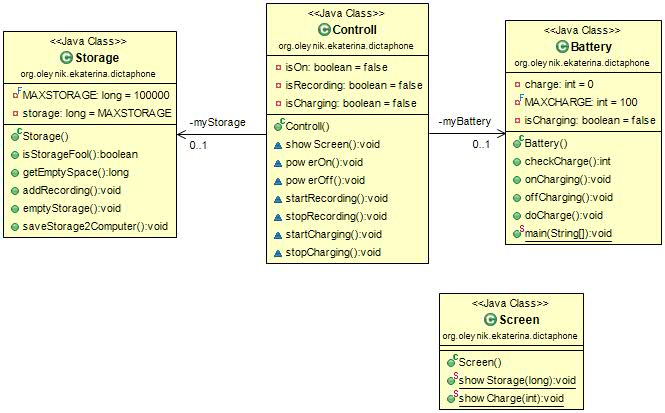
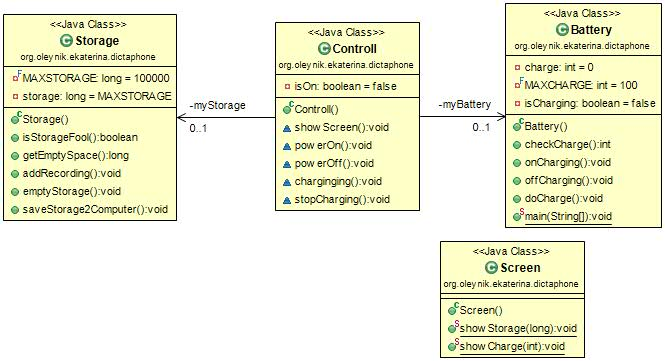
Dictaphone classes were updated

Changed region(s): [[0.0, 0.0, 1.0, 0.6399], [0.6617, 0.6704, 0.9023, 1.0]]

diff --git a/dictaphone/src/org/oleynik/ekaterina/dictaphone/Controll.java b/dictaphone/src/org/oleynik/ekaterina/dictaphone/Controll.java
@@ -4,8 +4,6 @@ public class Controll {
 	private Battery myBattery = new Battery();
 	private Storage myStorage = new Storage();
 	private boolean isOn = false;
-	private boolean isRecording = false;
-	private boolean isCharging = false;
 	void showScreen(){
 		Screen.showCharge(myBattery.checkCharge());
 		Screen.showStorage(myStorage.getEmptySpace());
@@ -16,16 +14,8 @@ public class Controll {
 	void powerOff(){
 		isOn = false;
 	}
-	void startRecording(){
-		isRecording = true;
-	}
-	void stopRecording(){
-		isRecording = false;
-	}
-	void startCharging(){
-		isCharging = true;
+	void charginging(){
 	}
 	void stopCharging(){
-		isCharging = true;
 	}
 }

diff --git a/dictaphone/src/org/oleynik/ekaterina/dictaphone/Battery.java b/dictaphone/src/org/oleynik/ekaterina/dictaphone/Battery.java
@@ -2,7 +2,7 @@ package org.oleynik.ekaterina.dictaphone;
 
 public class Battery {
 	private int charge = 0;
-	private final int MAXCHARGE = 100;
+	private final int MAXCHARGE = 150;
 	private boolean isCharging = false;
 	public int checkCharge(){
 		return charge;
@@ -33,7 +33,7 @@ public class Battery {
 		Battery myBattery = new Battery();
 		System.out.println("Battery charge is " + myBattery.checkCharge());
 		myBattery.onCharging();
-		for (int i=0; i<10; i++) {
+		for (int i=0; i<20; i++) {
 			myBattery.doCharge();
 		}
 		myBattery.offCharging();

diff --git a/dictaphone/src/org/oleynik/ekaterina/dictaphone/Storage.java b/dictaphone/src/org/oleynik/ekaterina/dictaphone/Storage.java
@@ -1,7 +1,7 @@
 package org.oleynik.ekaterina.dictaphone;
 
 public class Storage {
-	private final long MAXSTORAGE = 100000;
+	private final long MAXSTORAGE = 105000;
 	private long storage = MAXSTORAGE;
 	public boolean isStorageFool(){
 		boolean isFool = true;
@@ -12,9 +12,9 @@ public class Storage {
 		return space;
 	};
 	public void addRecording(){
-		if ((storage - 100)<0) 
+		if ((storage - 50)<0) 
 			return;
-		storage -= 100;
+		storage -= 50;
 	}
 	public void emptyStorage(){
 		storage = MAXSTORAGE;
